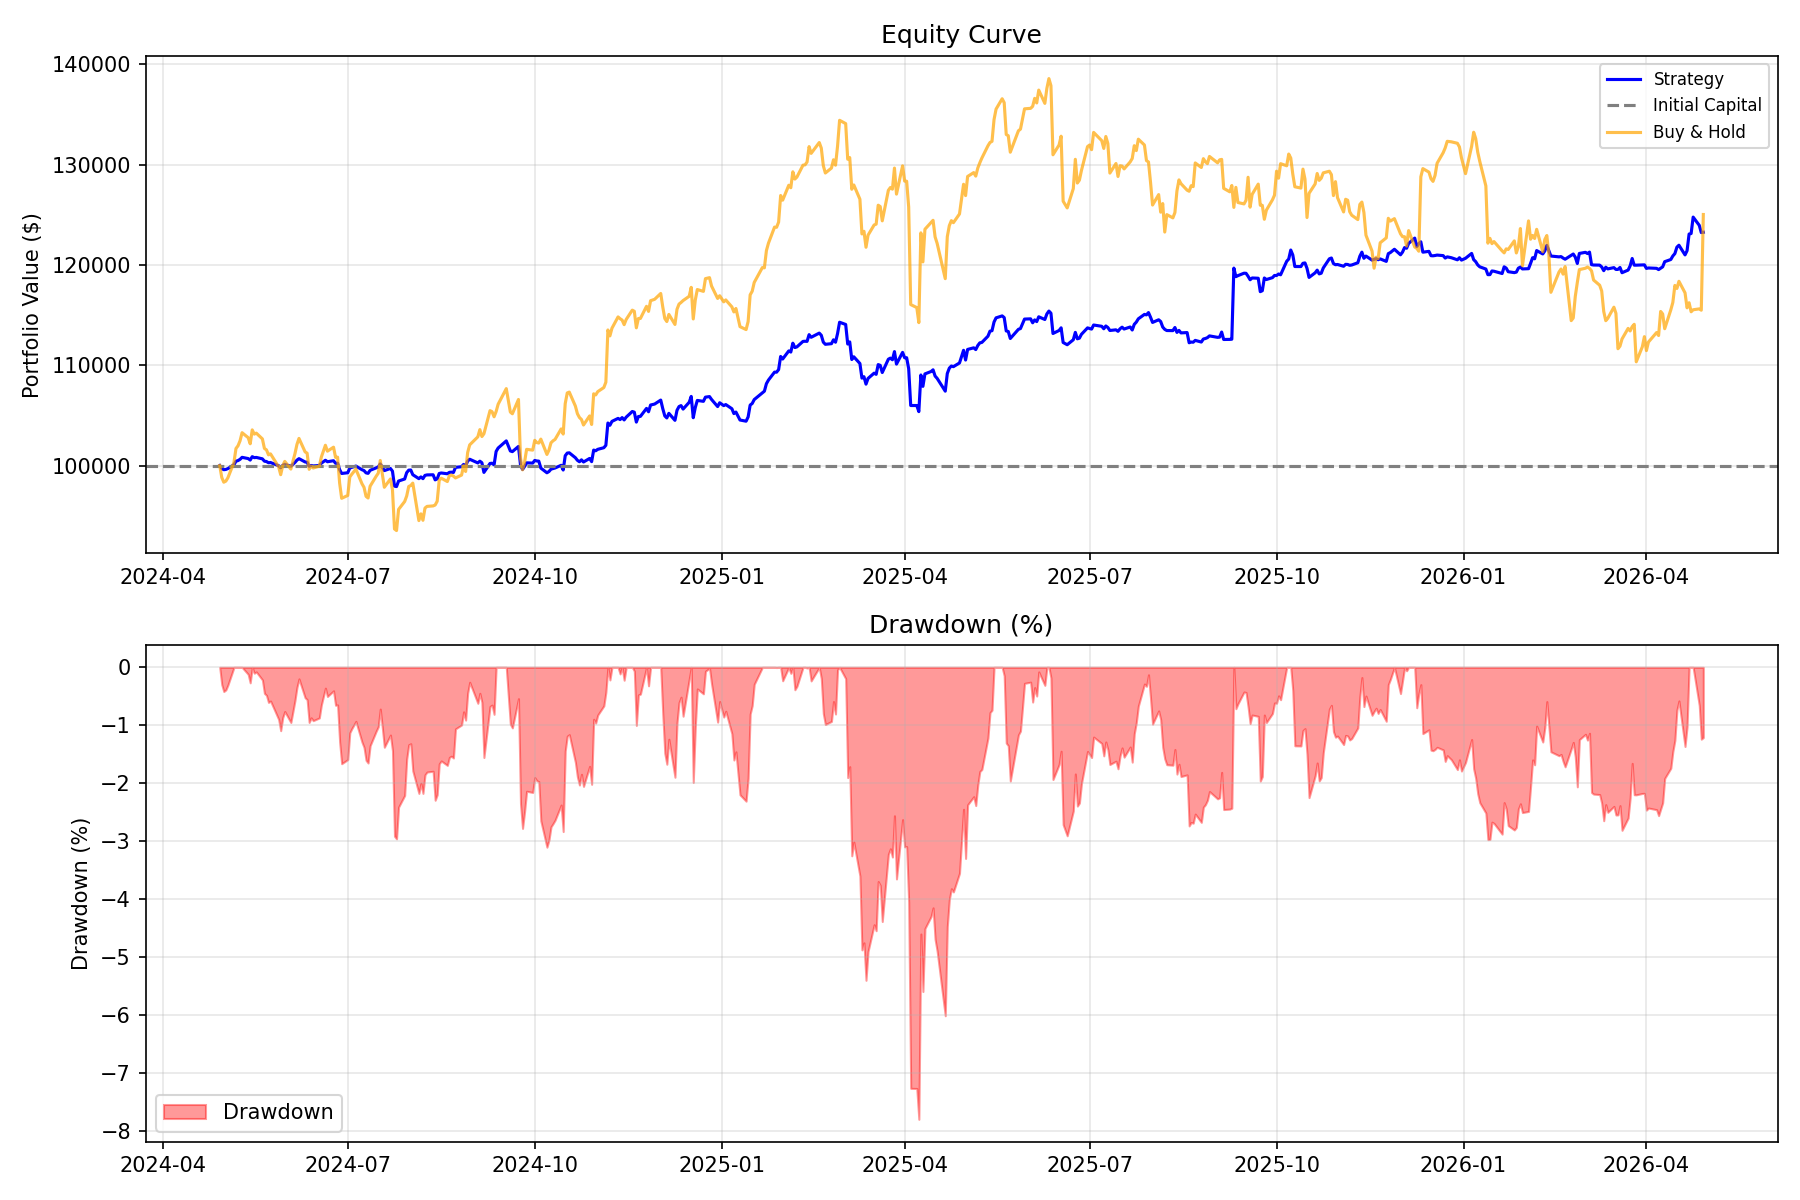
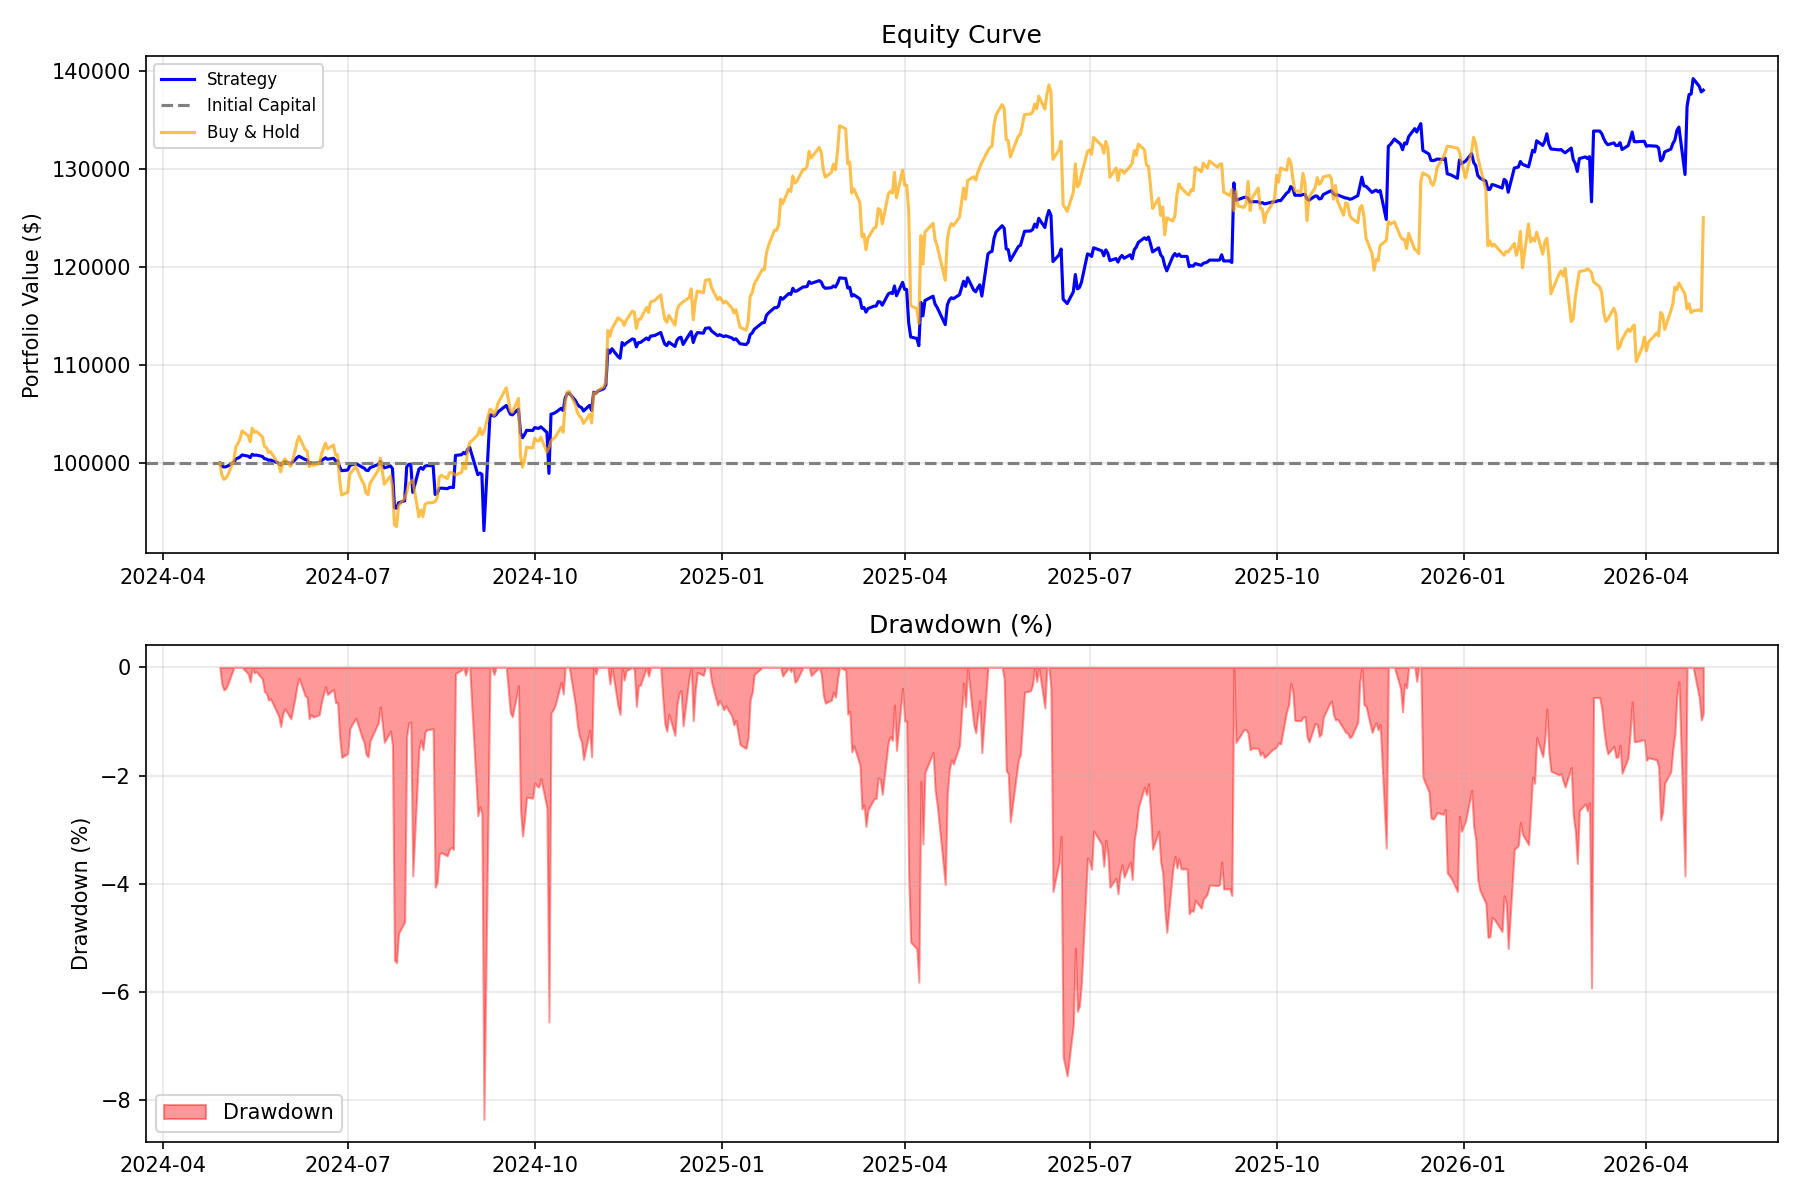
half kelly and important code cleaning

diff --git a/backtest/engine.py b/backtest/engine.py
@@ -62,44 +62,66 @@ class BacktestEngine:
         return base_stop_mult * scale, base_profit_mult * scale
 
     def _calculate_position_size(
-        self, atr: float, price: float, max_size_override: float = None,
+        self,
+        atr: float,
+        price: float,
+        strength: float = 0.0,
+        b_ratio: float = 1.5,
+        max_size_override: float = None,
     ) -> float:
-        """Calculate position size as a fraction of cash based on ATR volatility.
+        """Calculate position size using the Fractional Kelly Criterion.
 
-        Uses volatility-inverse sizing: lower volatility → larger position (up to
-        MAX_POSITION_SIZE_PCT), higher volatility → smaller position (down to 0.15).
-        ATR as a percentage of price is used as the volatility measure.
+        Kelly fraction f* = p - (1 - p) / b
+        where:
+          - p is the probability of a winning trade (signal_strength from ML).
+          - b is the reward-to-risk ratio (tp_mult / sl_mult).
+
+        Uses Half-Kelly for safety and caps at max_size.
 
         Args:
-            atr: Average True Range value for the current bar.
+            atr: Average True Range value for the current bar (used for fallback sizing).
             price: Current asset price.
+            strength: ML probability score of a winning trade (0.0 to 1.0).
+            b_ratio: Reward-to-risk ratio.
             max_size_override: Optional per-stock max position size (from StockProfile).
 
         Returns:
-            Position size as a fraction of available cash (between 0.15 and MAX_POSITION_SIZE_PCT).
+            Position size as a fraction of available cash.
         """
         from config import settings
 
         max_size = max_size_override if max_size_override is not None else getattr(settings, "MAX_POSITION_SIZE_PCT", 0.25)
-        min_size = 0.15
+        
+        # If ML strength is very low or Kelly inputs are invalid, use fallback inverse-vol sizing
+        if strength <= 0.0 or b_ratio <= 0.0:
+            min_size = 0.15
+            if atr <= 0 or price <= 0:
+                return max_size
+            atr_pct = atr / price
+            low_vol_threshold = 0.01
+            high_vol_threshold = 0.03
+            if atr_pct <= low_vol_threshold:
+                return max_size
+            elif atr_pct >= high_vol_threshold:
+                return min_size
+            else:
+                t = (atr_pct - low_vol_threshold) / (high_vol_threshold - low_vol_threshold)
+                return max_size - t * (max_size - min_size)
 
-        if atr <= 0 or price <= 0:
-            return max_size  # default to max when ATR unavailable
-
-        # Normalised volatility: ATR as percentage of price
-        atr_pct = atr / price
-
-        # Linear interpolation: low vol (≤1%) → max_size; high vol (≥3%) → min_size
-        low_vol_threshold = 0.01
-        high_vol_threshold = 0.03
-
-        if atr_pct <= low_vol_threshold:
-            return max_size
-        elif atr_pct >= high_vol_threshold:
-            return min_size
-        else:
-            t = (atr_pct - low_vol_threshold) / (high_vol_threshold - low_vol_threshold)
-            return max_size - t * (max_size - min_size)
+        # Kelly Calculation
+        p = strength
+        q = 1.0 - p
+        
+        kelly_fraction = p - (q / b_ratio)
+        
+        if kelly_fraction <= 0:
+            return 0.0 # Don't take negative expectation trades
+            
+        # Fractional Kelly (Half-Kelly) for safety
+        fractional_kelly = kelly_fraction * 0.5
+        
+        # Cap at max_size
+        return min(fractional_kelly, max_size)
 
     def run(
         self,
@@ -1163,9 +1185,11 @@ class BacktestEngine:
         
         cap_per_sym = initial_capital / max(1, len(mr_data))
         mr_total = pd.Series(0.0, index=ref_df.index)
+        mr_trades = []
         for sym, df in mr_data.items():
             bt = BacktestEngine()
             df_port = bt.run(symbols_data[sym], df, initial_capital=cap_per_sym, benchmark_prices=ref_df["Close"])
+            mr_trades.extend(bt._trades)
             if not df_port.empty:
                 aligned = df_port["portfolio_value"].reindex(ref_df.index).ffill()
                 mr_total += aligned.fillna(cap_per_sym)
@@ -1190,6 +1214,7 @@ class BacktestEngine:
             ]
         bt_pairs = BacktestEngine()
         df_pairs_port = bt_pairs.run_pairs_backtest(pairs_input, initial_capital=initial_capital)
+        pairs_trades = bt_pairs._trades
         pairs_returns = df_pairs_port["portfolio_value"].pct_change().reindex(ref_df.index).fillna(0) if not df_pairs_port.empty else pd.Series(0, index=ref_df.index)
 
         # Momentum
@@ -1197,6 +1222,7 @@ class BacktestEngine:
         bt_mom = BacktestEngine()
         mom_data = {sym: df for sym, df in symbols_data.items() if sym != "SPY"}
         df_mom_port = bt_mom.run_momentum_backtest(mom_data, initial_capital=initial_capital)
+        mom_trades = bt_mom._trades
         mom_returns = df_mom_port["portfolio_value"].pct_change().reindex(ref_df.index).fillna(0) if not df_mom_port.empty else pd.Series(0, index=ref_df.index)
 
         # 2. Continuous Walk-Forward Optimization Loop
@@ -1255,8 +1281,6 @@ class BacktestEngine:
                         best_alloc = alloc
                         
                 # Apply exponential weight smoothing (alpha = 0.25) to prevent violent allocation jumps.
-                # This acts as a low-pass filter, making the strategy robust to floating-point noise
-                # and preventing drastic portfolio turnover on edge-case regime boundaries.
                 smoothing_factor = 0.25
                 w_mr = (1 - smoothing_factor) * w_mr + smoothing_factor * best_alloc[0]
                 w_p  = (1 - smoothing_factor) * w_p  + smoothing_factor * best_alloc[1]
@@ -1275,7 +1299,10 @@ class BacktestEngine:
             portfolio_values.append({
                 "date": date, 
                 "portfolio_value": current_val, 
-                "cash": current_val * w_c
+                "cash": current_val * w_c,
+                "w_mr": w_mr,
+                "w_p": w_p,
+                "w_mo": w_mo,
             })
             
         self._portfolio = pd.DataFrame(portfolio_values).set_index("date")
@@ -1287,16 +1314,33 @@ class BacktestEngine:
             benchmark_shares = initial_capital / close_prices.iloc[0]
             self._benchmark = close_prices * benchmark_shares
             
-        # To make the report happy about trades, we can add a dummy trade
-        if len(df_all) > 0:
-            self._trades.append({
-                "entry_date": df_all.index[0],
-                "exit_date": df_all.index[-1],
-                "symbol": "DYNAMIC_PORTFOLIO",
-                "side": "long",
-                "pnl": current_val - initial_capital,
-                "exit_reason": "end_of_backtest",
-            })
+        # Post-process trades: Scale PnL based on the allocation weight at the time of exit
+        df_weights = self._portfolio[["w_mr", "w_p", "w_mo"]]
+        
+        def scale_and_add_trades(trades_list, weight_col):
+            for trade in trades_list:
+                exit_date = trade.get("exit_date")
+                if exit_date and exit_date in df_weights.index:
+                    w = df_weights.loc[exit_date, weight_col]
+                elif exit_date:
+                    # fallback to nearest if not exact match
+                    idx = df_weights.index.get_indexer([exit_date], method='nearest')[0]
+                    w = df_weights.iloc[idx][weight_col] if idx != -1 else 0
+                else:
+                    w = 0
+                
+                # Only include trades if the strategy had some capital allocated to it
+                if w > 0.01:
+                    trade_copy = trade.copy()
+                    trade_copy["pnl"] = trade_copy.get("pnl", 0) * w
+                    self._trades.append(trade_copy)
+                    
+        scale_and_add_trades(mr_trades, "w_mr")
+        scale_and_add_trades(pairs_trades, "w_p")
+        scale_and_add_trades(mom_trades, "w_mo")
+        
+        # Sort trades chronologically by exit date
+        self._trades.sort(key=lambda x: x.get("exit_date", pd.Timestamp.min))
 
         return self._portfolio
 

diff --git a/config/settings.py b/config/settings.py
@@ -16,7 +16,7 @@ RSI_OVERSOLD = 30
 RSI_OVERBOUGHT = 70
 BOLLINGER_WINDOW = 20
 BOLLINGER_STD = 2.0
-MAX_POSITION_SIZE_PCT = 0.10
+MAX_POSITION_SIZE_PCT = 0.35
 STOP_LOSS_PCT = 0.02
 TAKE_PROFIT_PCT = 0.06
 MAX_PORTFOLIO_DRAWDOWN_PCT = 0.1
@@ -89,11 +89,11 @@ PAIRS_ZSCORE_EXIT = 0.5
 PAIRS_ZSCORE_STOP = 3.5
 PAIRS_LOOKBACK = 60  # Rolling window for spread z-score
 PAIRS_COINT_PVALUE = 0.05  # Max p-value for cointegration
-CAPITAL_PER_PAIR = 0.03  # 3% of portfolio per pair
-MAX_SIMULTANEOUS_PAIRS = 3  # Maximum number of open pair positions at once
+CAPITAL_PER_PAIR = 0.15  # Increased to 15% of portfolio per pair (was 3%)
+MAX_SIMULTANEOUS_PAIRS = 4  # Maximum number of open pair positions at once
 MAX_PAIR_LOSS_PCT = 0.03  # Close a pair if unrealized loss exceeds 3% of capital_per_pair
 PAIR_COOLDOWN_DAYS = 5  # Trading days before a stopped-out pair can re-enter
-MAX_PORTFOLIO_EXPOSURE = 0.15  # Max fraction of portfolio committed to pairs at any time
+MAX_PORTFOLIO_EXPOSURE = 0.60  # Max fraction of portfolio committed to pairs (was 15%)
 
 # Momentum
 MOMENTUM_SMA_FAST = 50
